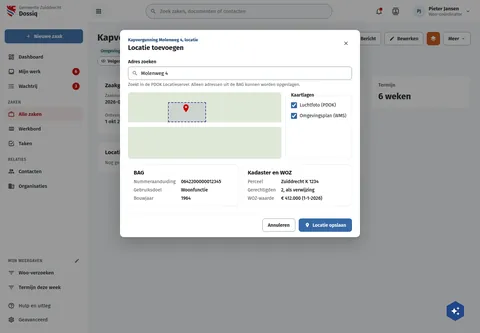
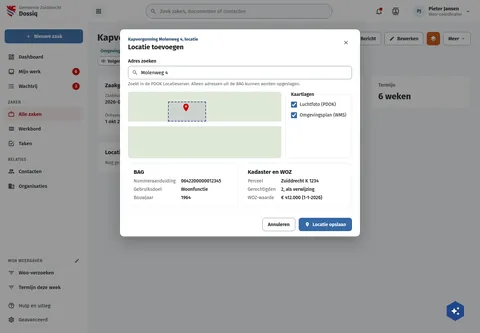
fix(screens): DqZaakLocatie draws the dialog frame top at 88
Re-measured on :8080: the board drew the frame at 90, live sits at 88.

Assisted-by: ClaudeCode:claude-opus-5-5

diff --git a/preview/screens/boards/DqZaakLocatie.html b/preview/screens/boards/DqZaakLocatie.html
@@ -148,7 +148,7 @@ a{color:var(--sc-primary, #3669a5)}a:hover{color:var(--sc-primary-deep, #234a78)
       </main>
     </div>
   </div>
-  <div style="position: absolute; inset: 0; background: rgba(27,28,29,0.45); display: flex; justify-content: center; align-items: flex-start; padding: 90px 16px 24px; box-sizing: border-box">
+  <div style="position: absolute; inset: 0; background: rgba(27,28,29,0.45); display: flex; justify-content: center; align-items: flex-start; padding: 88px 16px 24px; box-sizing: border-box">
     <div role="dialog" aria-modal="true" aria-labelledby="dlg-titel" style="width: 720px; max-width: 100%; background: #ffffff; border-radius: 12px; box-shadow: 0 16px 48px rgba(27,28,29,0.28); display: flex; flex-direction: column">
       <div style="display: flex; justify-content: space-between; align-items: flex-start; gap: 16px; padding: 22px 24px 4px">
         <div style="display: flex; flex-direction: column; gap: 4px"><span style="font-size: 13px; font-weight: 700; color: var(--sc-primary-deep, #234a78)">Kapvergunning Molenweg 4, locatie</span><h2 id="dlg-titel" style="margin: 0; font-size: 20px; font-weight: 700">Locatie toevoegen</h2></div>

diff --git a/screens-src/zuiddrecht/DqZaakLocatie.dc.html b/screens-src/zuiddrecht/DqZaakLocatie.dc.html
@@ -30,7 +30,7 @@ a{color:#3669a5}a:hover{color:#234a78}
       </main>
     </div>
   </div>
-  <div style="position: absolute; inset: 0; background: rgba(27,28,29,0.45); display: flex; justify-content: center; align-items: flex-start; padding: 90px 16px 24px; box-sizing: border-box">
+  <div style="position: absolute; inset: 0; background: rgba(27,28,29,0.45); display: flex; justify-content: center; align-items: flex-start; padding: 88px 16px 24px; box-sizing: border-box">
     <div role="dialog" aria-modal="true" aria-labelledby="dlg-titel" style="width: 720px; max-width: 100%; background: #ffffff; border-radius: 12px; box-shadow: 0 16px 48px rgba(27,28,29,0.28); display: flex; flex-direction: column">
       <div style="display: flex; justify-content: space-between; align-items: flex-start; gap: 16px; padding: 22px 24px 4px">
         <div style="display: flex; flex-direction: column; gap: 4px"><span style="font-size: 13px; font-weight: 700; color: #234a78">Kapvergunning Molenweg 4, locatie</span><h2 id="dlg-titel" style="margin: 0; font-size: 20px; font-weight: 700">Locatie toevoegen</h2></div>
